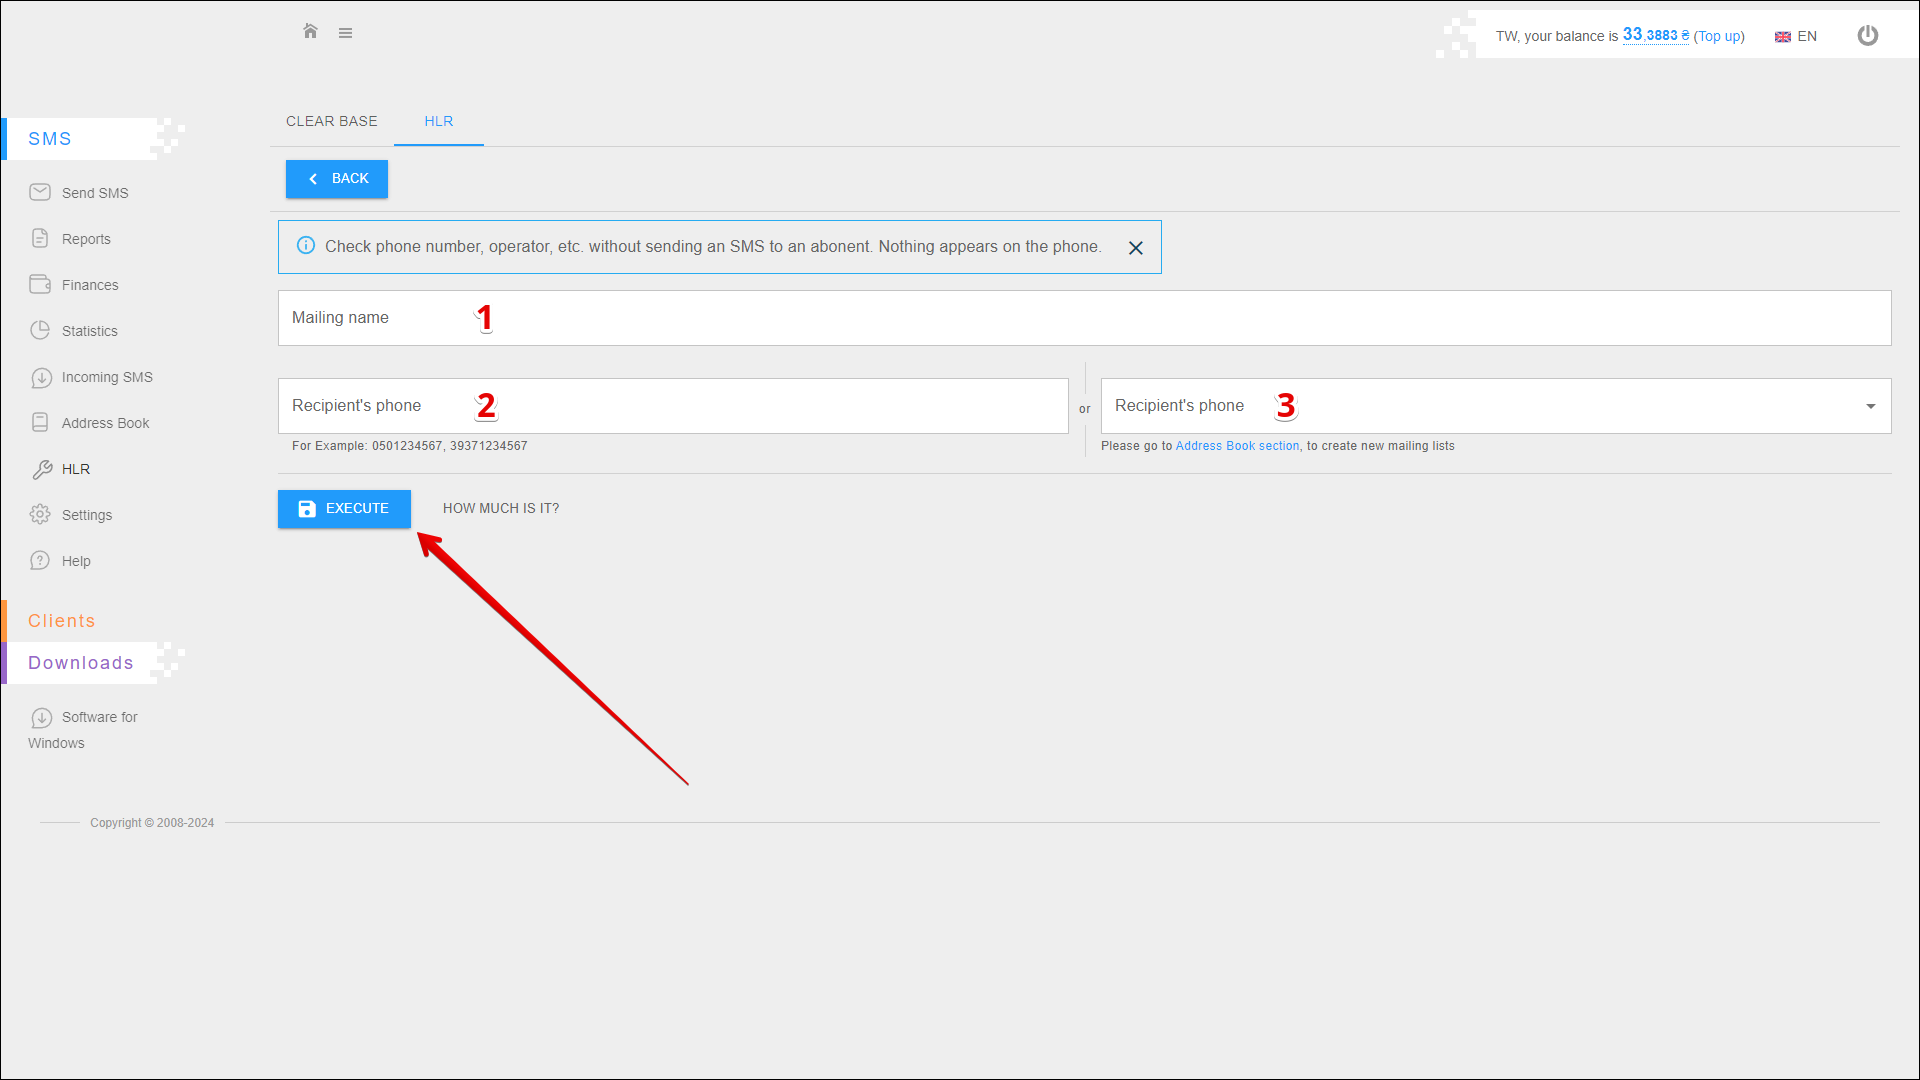
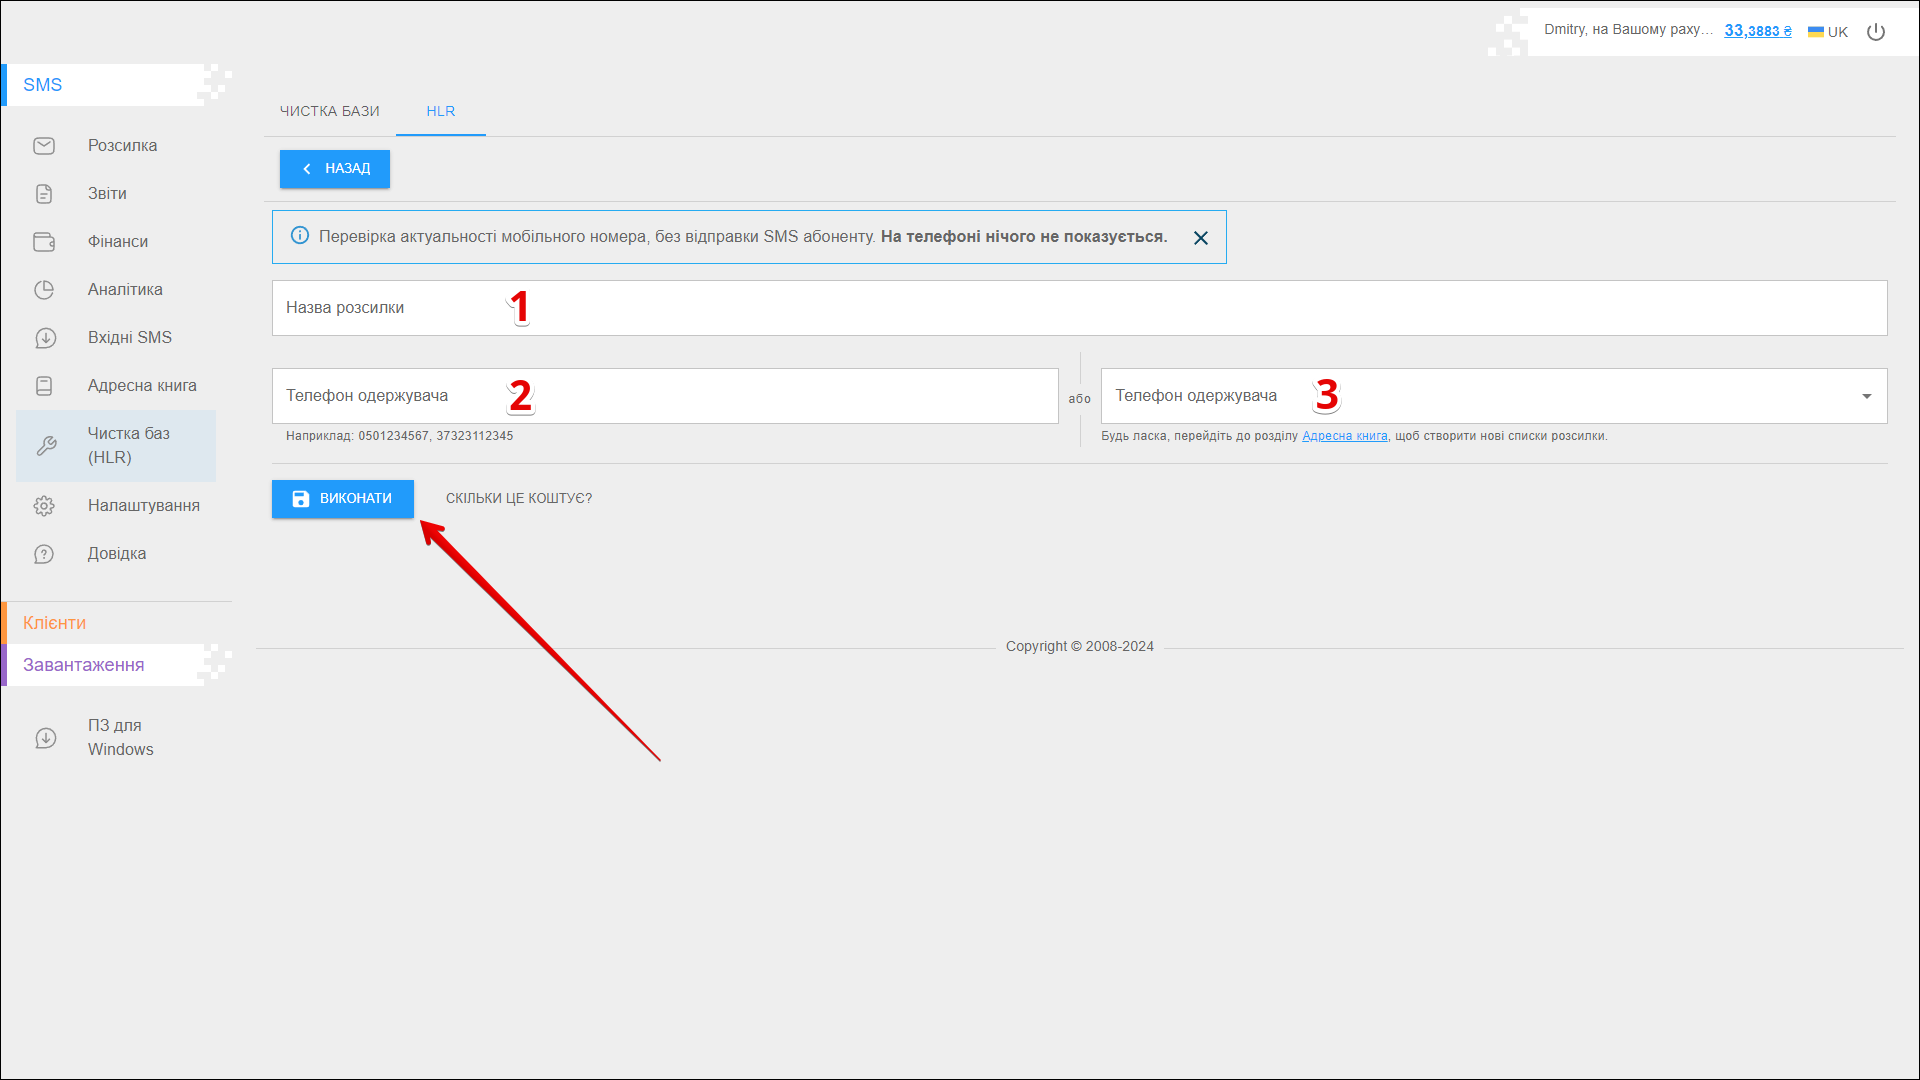
+ SMS-Чистка баз (HLR)-HLR

diff --git a/i18n/uk/docusaurus-plugin-content-docs/current/instruction/sms/hlr/hlr.md b/i18n/uk/docusaurus-plugin-content-docs/current/instruction/sms/hlr/hlr.md
@@ -3,3 +3,54 @@ id: hlr
 title: HLR
 slug: /hlr
 ---
+
+У цій вкладці ви можете перевірити дійсність номера у вашій адресній книзі. Також можна отримати детальну інформацію про номер, включаючи визначення оператора мобільного зв'язку та номери в роумінгу. Абонент не отримує жодних повідомлень, оскільки запит направляється на обладнання оператора зв'язку.
+
+Щоб відкрити дану вкладку, виберіть **SMS** → **Чистка баз (HLR)** у боковому меню та перейдіть на вкладку **HLR**.
+
+![image1](/img/uk/sms_hlr_hlr/image1.png)
+
+## Перевірка номерів
+
+Щоб перевірити номери в адресній книзі, натисніть **+ ДОДАТИ**.
+
+![image2](/img/uk/sms_hlr_hlr/image2.png)
+
+Далі виконайте наведені нижче дії:
+
+|  №  | Дія |
+| :-: | --- |
+| 1 | Введіть **Назву розсилки** |
+| 2 | Введіть **Телефон одержувача** <br/> Наприклад: 0501234567, 39371234567 |
+| 3 | Або оберіть [**Адресну книгу**](../address_book/recipients.md) |
+
+Натисніть кнопку **ВИКОНАТИ**, щоб почати перевірку номерів.
+
+![image3](/img/uk/sms_hlr_hlr/image3.png)
+
+## Вибір періоду
+
+Щоб вибрати **Період**, за який ви хочете відображати звіти, виконайте наведені нижче дії:
+
+|  №  | Дія |
+| :-: | --- |
+| 1 | Введіть **Початкову дату**. Ви можете ввести дату вручну або вибрати її в календарі, для цього натисніть на іконку **Календар** в правій частині поля |
+| 2 | Введіть **Кінцеву дату**. Ви можете ввести дату вручну або вибрати її в календарі, для цього натисніть на іконку **Календар** в правій частині поля |
+
+Після вибору дати сторінка оновиться, щоб відобразити звіти за вказаний період.
+
+![image4](/img/uk/sms_hlr_hlr/image4.png)
+
+## Звіти про перевірку номерів
+
+Результати перевірки номерів розташовуються в таблиці, де дані наведені в окремих стовпчиках:
+
+![image5](/img/uk/sms_hlr_hlr/image5.png)
+
+|  №  | Стовпчик | Опис |
+| :-: | -------- | ---- |
+| 1 | **Дата** | Дата та час початку перевірки номерів |
+| 2 | **Ім'я розсилки** | Назва розсилки, для якої звіт можна знайти в розділі [**Аналітика**](../reports/bulk_sms_reports.md) |
+| 3 | **Статус** | Поточний статус перевірки |
+| 4 | **SMS** | Кількість відправлених повідомлень |
+| 5 | **Ціна, ₴** | Загальна вартість послуги (у гривнях) |

diff --git a/docs/instruction/sms/hlr/hlr.md b/docs/instruction/sms/hlr/hlr.md
@@ -19,10 +19,10 @@ To check numbers on your address book, press **+ ADD**.
 Next, follow the steps below:
 
 |  №  | Action |
-| :-: | ----------- |
+| :-: | ------ |
 | 1 | Enter **mailing name** |
 | 2 | Enter the **recipients' phone** numbers <br/> For example: 0501234567, 39371234567 |
-| 3 | Or select the **address book** |
+| 3 | Or select the [**address book**](../address_book/recipients.md) |
 
 Press the **EXECUTE** button to start checking numbers.
 
@@ -50,7 +50,7 @@ The results of the numbers check are located in a table with the data in separat
 |  №  | Column | Description |
 | :-: | ------ | ----------- |
 | 1 | **Date** | Date and time of the beginning of the number check |
-| 2 | **Mailing name** | Name of the mailing for which the report can be found in [**Reports**](/docs/instruction/sms/reports/bulk_sms_reports.md) |
+| 2 | **Mailing name** | Name of the mailing for which the report can be found in [**Reports**](../reports/bulk_sms_reports.md) |
 | 3 | **Status** | Current check status |
 | 4 | **SMS** | Number of messages sent |
 | 5 | **Price, ₴** | Total cost of the service (in UAH) |
